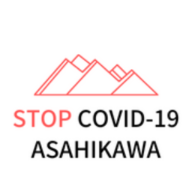
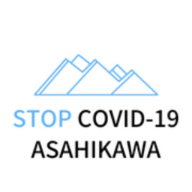
fixed.

Changed region(s): [[0.1562, 0.2812, 0.8438, 0.5], [0.0625, 0.5625, 0.375, 0.6875]]

diff --git a/ash_unofficial_covid19/templates/index.html b/ash_unofficial_covid19/templates/index.html
@@ -153,7 +153,7 @@
           <div class="col-md-3 order-md-1">
             <nav>
               <div class="list-group list-group-flush">
-                <a href="/" title="旭川市新型コロナウイルス感染症状況の最新動向へ" class="list-group-item list-group-item-action font-weight-bold text-danger"> 旭川市内感染状況の最新動向</a>
+                <a href="/" title="旭川市新型コロナウイルス感染症状況の最新動向へ" class="list-group-item list-group-item-action font-weight-bold text-primary"> 旭川市内感染状況の最新動向</a>
                 <a href="/about" title="このサイトについてへ" class="list-group-item list-group-item-action">このサイトについて</a>
                 <a href="/reservation_statuses" title="旭川市コロナワクチンマップ（3回目接種）へ" class="list-group-item list-group-item-action">コロナワクチンマップ（3回目接種）</a>
                 <a href="/first_reservation_statuses" title="旭川市コロナワクチンマップ（1・2回目接種）へ" class="list-group-item list-group-item-action">コロナワクチンマップ（1・2回目接種）</a>

diff --git a/ash_unofficial_covid19/templates/layout.html b/ash_unofficial_covid19/templates/layout.html
@@ -62,7 +62,7 @@
           <div class="col-md-3 order-md-1">
             <nav>
               <div class="list-group list-group-flush">
-                <a href="/" title="旭川市新型コロナウイルス感染症状況の最新動向へ" class="list-group-item list-group-item-action font-weight-bold text-danger"> 旭川市内感染状況の最新動向</a>
+                <a href="/" title="旭川市新型コロナウイルス感染症状況の最新動向へ" class="list-group-item list-group-item-action font-weight-bold text-primary"> 旭川市内感染状況の最新動向</a>
                 <a href="/about" title="このサイトについてへ" class="list-group-item list-group-item-action">このサイトについて</a>
                 <a href="/reservation_statuses" title="旭川市コロナワクチンマップ（3回目接種）へ" class="list-group-item list-group-item-action">コロナワクチンマップ（3回目接種）</a>
                 <a href="/first_reservation_statuses" title="旭川市コロナワクチンマップ（1・2回目接種）へ" class="list-group-item list-group-item-action">コロナワクチンマップ（1・2回目接種）</a>

diff --git a/ash_unofficial_covid19/views/graph.py b/ash_unofficial_covid19/views/graph.py
@@ -167,7 +167,7 @@ class DailyTotalView(GraphView):
         ax = fig.add_subplot()
         day_x = [row[0] for row in self.__daily_total_data]
         day_y = [row[1] for row in self.__daily_total_data]
-        ax.bar(day_x, day_y, color="salmon")
+        ax.bar(day_x, day_y, color="#64B5F6")
         ax.yaxis.set_major_locator(MultipleLocator(25))
         ax.xaxis.set_major_locator(mdates.MonthLocator())
         ax.xaxis.set_major_formatter(mdates.DateFormatter("%m-%d"))
@@ -251,7 +251,7 @@ class MonthTotalView(GraphView):
         ax = fig.add_subplot()
         month_total_x = [row[0].strftime("%Y-%m") for row in month_total_data]
         month_total_y = [row[1] for row in month_total_data]
-        ax.bar(month_total_x, month_total_y, facecolor="salmon")
+        ax.bar(month_total_x, month_total_y, facecolor="#64B5F6")
         ax.yaxis.set_major_locator(MultipleLocator(500))
         ax.tick_params(labelsize=8)
         ax.tick_params(axis="x", rotation=45)
@@ -311,16 +311,16 @@ class ByAgeView(GraphView):
         by_age_label = [row[0] for row in self.__by_age_data]
         by_age_x = [row[1] for row in self.__by_age_data]
         pie_colors = [
-            "mistyrose",
-            "peachpuff",
-            "lightsalmon",
-            "salmon",
-            "orangered",
-            "lemonchiffon",
-            "khaki",
-            "darkkhaki",
-            "goldenrod",
-            "orange",
+            "#64B5F6",
+            "#FFF176",
+            "#81C784",
+            "#E57373",
+            "#BA68C8",
+            "#A1887F",
+            "#F06292",
+            "#E0E0E0",
+            "#AED581",
+            "#4DD0E1",
         ]
         ax.pie(
             by_age_x,
@@ -437,7 +437,7 @@ class PerHundredThousandPopulationView(GraphView):
         ax.plot(
             per_hundred_thousand_population_x,
             per_hundred_thousand_population_y,
-            color="salmon",
+            color="#64B5F6",
             label="旭川市",
         )
         sapporo_per_hundred_thousand_population_x = [
@@ -540,17 +540,17 @@ class WeeklyPerAgeView(GraphView):
             fig = plt.figure()
         ax = fig.add_subplot()
         colors = [
-            "mistyrose",
-            "peachpuff",
-            "lightsalmon",
-            "salmon",
-            "orangered",
-            "lemonchiffon",
-            "khaki",
-            "darkkhaki",
-            "goldenrod",
-            "orange",
-            "floralwhite",
+            "#64B5F6",
+            "#FFF176",
+            "#81C784",
+            "#E57373",
+            "#BA68C8",
+            "#A1887F",
+            "#F06292",
+            "#E0E0E0",
+            "#AED581",
+            "#4DD0E1",
+            "#1976D2",
         ]
         cols = list(map(lambda x: x.strftime("%m-%d") + "~", df.columns.tolist()))
         for i in range(len(df)):
